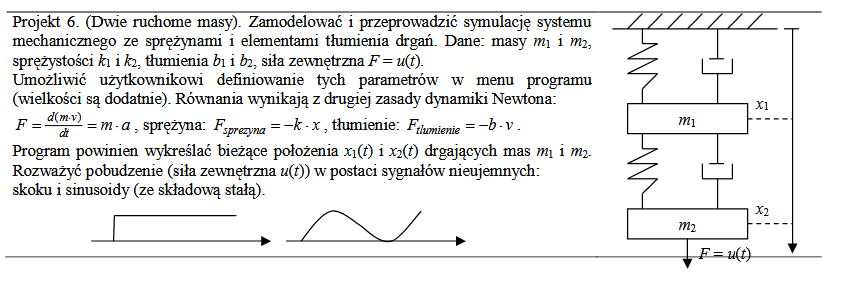
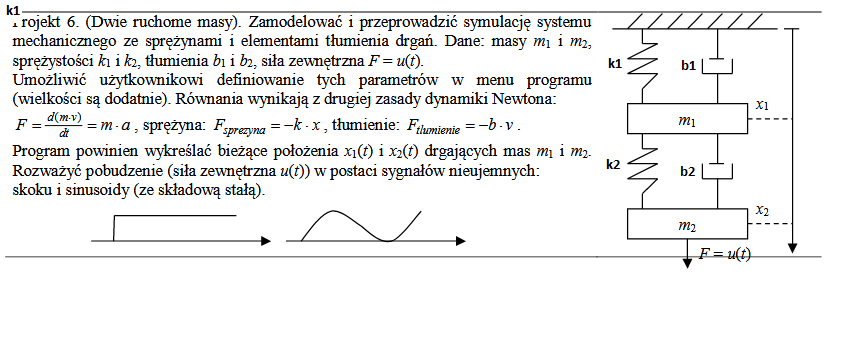
add checkbox and change photo

diff --git a/main.py b/main.py
@@ -5,6 +5,20 @@ BG_COLOR = "#f7e8bc"
 TEXT_COLOR = "#141414"
 INPUT_COLOR = "#5e5c5c"
 
+def check_buttons(sin_var, skok_var):
+    
+    global sin
+    global skok
+    
+    if sin_var == True:
+        sin.set(True)
+        skok.set(False)
+    elif skok_var == True:
+        skok.set(True)
+        sin.set(False)
+    
+        
+
 window = Tk()
 window.title("Projekt MMM")
 window.config(bg=BG_COLOR)
@@ -13,17 +27,47 @@ window.geometry("900x700")
 main_title = Label(text="Projekt MMM - zadanie 6", font=("Coco Gothic", 30, 'bold'), fg=TEXT_COLOR, bg=BG_COLOR)
 main_title.place(x=200, y=10)
 
-main_photo_canvas = Canvas(width=850, height=286, bg="black", highlightthickness=0)
+sin = BooleanVar()
+skok = BooleanVar()
+
+main_photo_canvas = Canvas(width=850, height=344, bg="black", highlightthickness=0)
 exc_img = PhotoImage(file="exc.png")
-main_photo_canvas.create_image(425, 143, image=exc_img)
+main_photo_canvas.create_image(425, 172, image=exc_img)
 main_photo_canvas.place(x=25, y=120)
 
 m1_entry = Entry(window, width=6, bg=INPUT_COLOR, fg="white")
+m1_entry.insert(0, "kg")
 m1_entry.place(x=730, y=230)
-m1_text = Label(text= "W kg", fg="black")
-m1_text.place(x=730, y = 250)
 
 m2_entry = Entry(window, width=6, bg=INPUT_COLOR, fg="white")
+m2_entry.insert(0, "kg")
 m2_entry.place(x=730, y=335)
+
+k1_entry = Entry(window, width=6, bg=INPUT_COLOR, fg="white")
+k1_entry.insert(0, "N/m")
+k1_entry.place(x=675, y=203)
+
+k2_entry= Entry(window, width=6, bg=INPUT_COLOR, fg="white")
+k2_entry.insert(0, "N/m")
+k2_entry.place(x=675, y=308)
+
+b1_entry = Entry(window, width=6, bg=INPUT_COLOR, fg="white")
+b1_entry.insert(0,"kg/s")
+b1_entry.place(x=765, y=176)
+
+b2_entry = Entry(window, width=6, bg=INPUT_COLOR, fg="white")
+b2_entry.insert(0,"kg/s")
+b2_entry.place(x=765, y=280)
+
+skok_check = Checkbutton(window, variable = skok, onvalue= True, offvalue = False, bg="white", command = lambda sin = False, skok = True : check_buttons(sin, skok))
+skok_check.place(x=190, y=380)
+
+sin_check = Checkbutton(window, variable = sin, onvalue= True, offvalue = False, bg="white", command = lambda sin = True, skok = False : check_buttons(sin, skok))
+sin_check.place(x=400, y =380)
+
+amplituda_input = Entry(window, width=6, bg=INPUT_COLOR, fg="white")
+amplituda_input.place(x=765, y =400)
+amplituda_text = Label(text="Amplituda", font=("Coco Gothic", 20, 'bold'), fg=TEXT_COLOR, bg=BG_COLOR)
+amplituda_text.place()
 
 window.mainloop()
